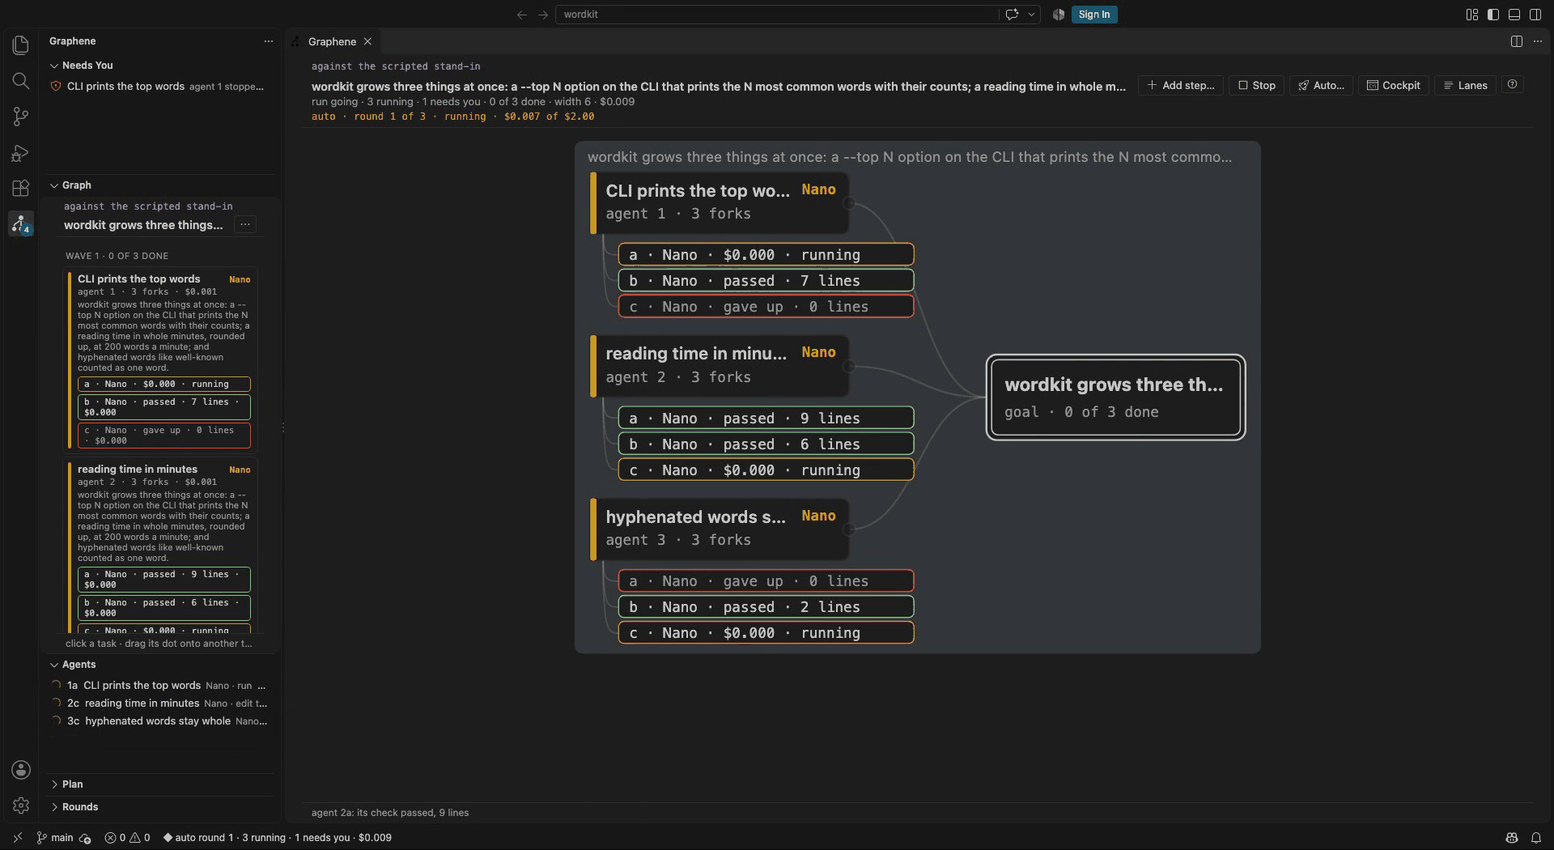
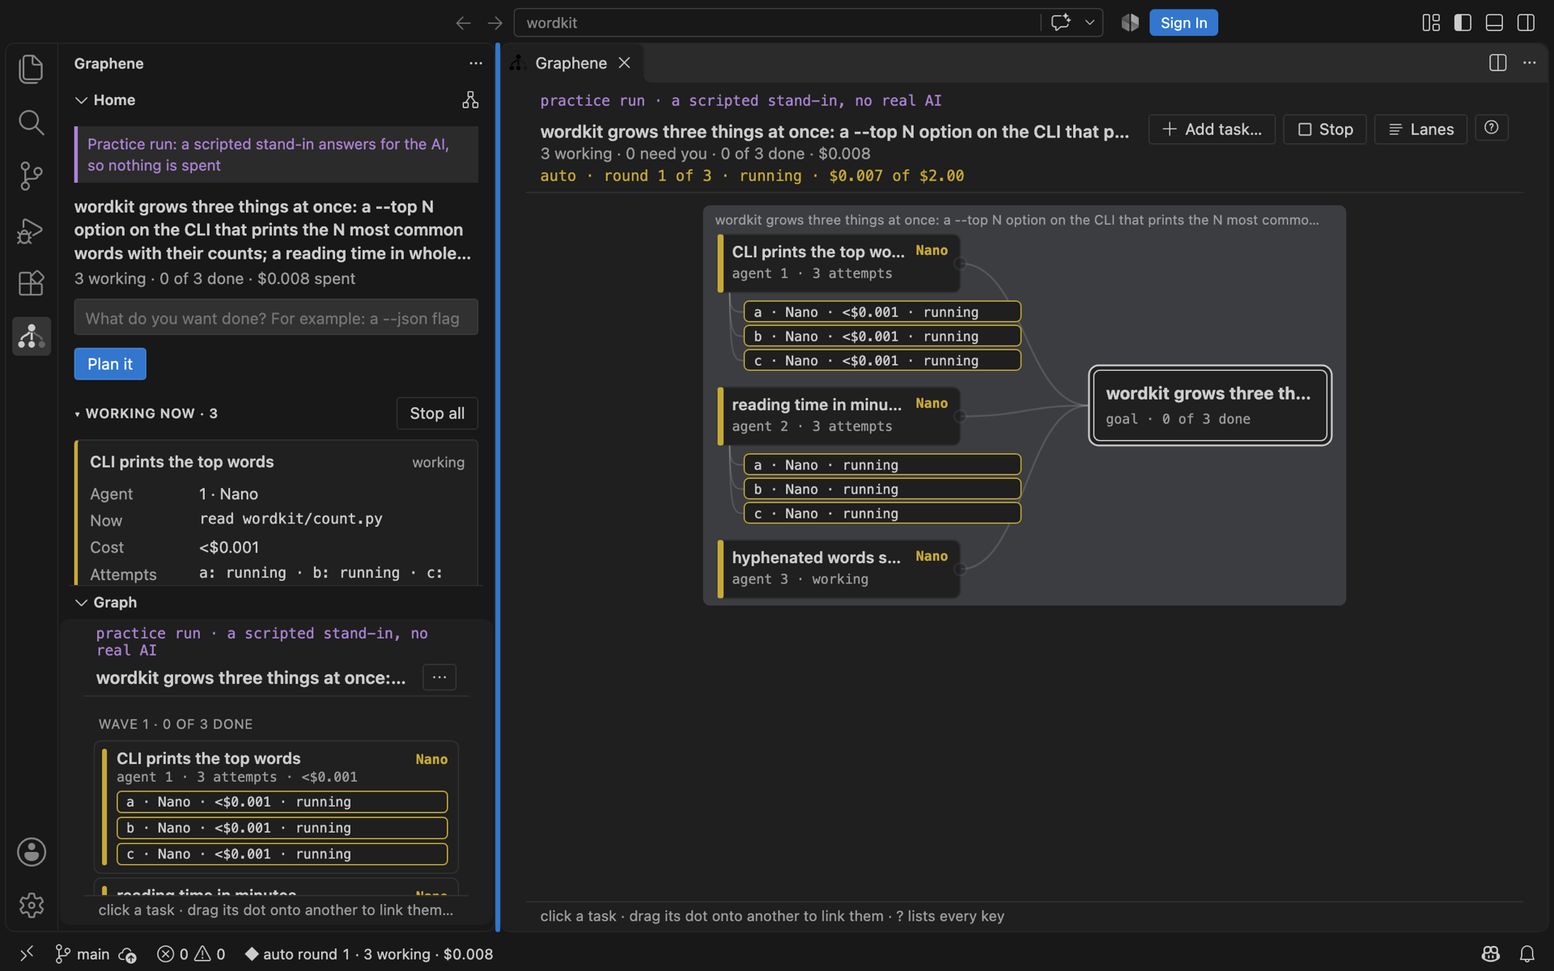
docs: Home in the listing, the README and the changelogs; DIRECTION 211-217
The extension's README leads with Home and maps the words on screen to
the CLI's; the root README, HACKATHON and COMPARE say Home where they
said Needs You; both changelogs list the change; DIRECTION records its
seven decisions, each one to veto. The listing's picture is a stand-in
race in real VS Code, Home in the side bar and the graph as a tab.

diff --git a/editors/vscode/README.md b/editors/vscode/README.md
@@ -1,34 +1,41 @@
 # Graphene for VS Code
 
-Watch and steer a team of coding agents from your editor. Graphene holds each agent to one task, one set of
-files and one check. This extension shows what needs you, the agents as they work, and the plan as a graph.
+Say what you want, read the plan, start the agents, and approve what they did. Graphene runs each agent on one
+task, in its own copy of your repository, held to the files that task may change. A task lands only when its
+check passes and, if you keep the box ticked at setup, when you approve it.
 
-![Graphene for VS Code during a race against the scripted stand-in, in real VS Code: the editor tab draws three tasks, each fanned out into three Nano forks, running, passed or given up, with their lines and dollars, flowing into the goal; the auto line says round 1 of 3, running, $0.007 of $2.00; in the side bar, Needs You holds a task whose agent was stopped, the Graph draws the same race as lanes, and Agents lists the three agents at work](media/graph.png)
+![Graphene for VS Code during a race against the scripted stand-in, in real VS Code: Home, in the side bar, shows three agents working, each with its model, what it is doing now, its cost and its attempts, and a Stop all button; the editor tab draws the same race, two tasks each fanned out into three Nano attempts, all running, flowing into the goal; the auto line says round 1 of 3, running, $0.007 of $2.00](media/graph.png)
 
 It is a thin client over the `graphene` command. Everything it shows is `graphene state --json`, streamed with
 `--watch`, and everything it changes is one `graphene` command, the same ones the terminal cockpit runs.
 
-## What you can do
+## Home: everything with a click
 
-- **See what needs you first.** Needs You leads the side bar: a question, a proposal, a task that came back, a
-  sign-off, your own task, auto mode waiting. Each row has its move inline. Answer a question from its options
-  or in your own words, accept or drop a proposal, take up a hand-back, sign off from the diff, set a missing
-  key. Nothing sends you to the terminal.
-- **Watch the agents.** Agents lists every running agent: its number, task, model and fork, what it is editing
-  now, seconds quiet and dollars. Click one for its changes so far.
-- **Open any change in the diff editor.** A task or a fork opens against its base in VS Code's own diff editor.
-  A race's forks open side by side, and Keep This Fork and Sign Off sit in the diff's title.
-- **Read the race in the graph.** Tasks flow left to right into your goal. A forked task fans out into its forks
-  with their lines, dollars and seconds quiet, and the kept one says why it won. A task that came back is red,
-  with why. Narrow, the side bar draws the plan as lanes, wave by wave. Nothing is drawn under 11 px.
-- **Edit the plan as text.** Edit Plan as Text opens the plan's text form in an editor tab. Saving applies it,
-  all or none, and a refusal shows as a diagnostic on its line.
-- **Add a step in a sentence.** Type one line. The planner proposes the step with its scope, check and needs,
-  and it waits for your accept. Add Step by Hand keeps the four boxes.
-- **See whose file this is.** The Explorer marks each file a task owns, a running task's with its agent's
-  number. Open such a file and the status bar offers a diff with the agent's copy.
-- **Try it with no key.** Graphene: Watch the Demo plays a scripted run in a graph of its own, with no model
-  and no network, and its header says so.
+Click Graphene in the activity bar. Home is the first view, and it shows the one thing to do next.
+
+1. **Set up the folder.** Pick who plans and does the work: Claude Code, Codex or Nemotron. One click. Leave
+   *Ask me to approve each finished task* ticked, and nothing lands without you.
+2. **Say what you want.** Type it, in a sentence or a paragraph, and click **Plan it**. The planner reads the
+   repository and suggests small tasks. Each card says what the task is for, the files it may change, and the
+   check that proves it is done. Remove what you do not want.
+3. **Start.** The tasks are accepted and an agent starts on each. **Working now** shows each agent, what it is
+   editing and what it has spent; **Stop all** stops them.
+4. **Review.** Each finished task shows the files it changed, the check that passed, and the agent's last
+   steps. **Open changes** opens VS Code's diff editor; **Approve** lands it; **Send back…** returns it to an
+   agent with what is wrong. Approve before you have opened the changes, and Home asks first. When two attempts
+   both pass, you compare them and keep one.
+
+A task that needs help says why and offers its fixes as buttons: try again, allow it a file, add a task for what
+it needs. A question from the planner shows its options as buttons, the default first.
+
+The **graph** under Home is the whole plan: which tasks wait on which, the attempts racing, the one kept and
+why. **Show graph** opens it as a tab. The Explorer marks each file a task owns, a working agent's with its
+number.
+
+## Try it with no key
+
+**Graphene: Watch the Demo** plays a recorded run in a graph of its own, with no model and no network, and says
+so at the top.
 
 ## Install
 
@@ -48,54 +55,30 @@ It is a thin client over the `graphene` command. Everything it shows is `graphen
    code --install-extension graphene-0.9.0.vsix      # Cursor: cursor --install-extension graphene-0.9.0.vsix
    ```
 
-3. Open a folder. `Graphene: Set Up This Folder` asks who plans and who does the work, in two picks: Nemotron on
-   Token Factory, Claude Code, Codex, or a command of your own. It runs `graphene init` in a terminal. Then
-   `Graphene: Auto…` takes a goal and a budget, and plans first.
+3. Open a folder and click Graphene in the activity bar. Home sets it up.
 
 The Welcome page's **Get started with Graphene** walks through these, each step a button.
 
-## Editors
+## The words on screen
 
-VS Code 1.95 or later. In Cursor 3.25.6 (VS Code 1.128) the `.vsix` installs and activates, and the harness's
-end-to-end check passes there (`editors/vscode/e2e`). Cursor's agent layout hides the primary side bar; in its
-classic layout the views look as they do in VS Code.
-
-## Views
-
-- **Needs You**: questions, proposals, hand-backs, sign-offs, your own tasks and auto mode waiting, each with
-  its move inline, and a badge with the count.
-- **Graph**: the plan as a graph, in the side bar and as an editor tab (`Graphene: Show Plan Graph`); `?` lists
-  its keys.
-- **Agents**: every running agent, what it is doing, seconds quiet and dollars, and a badge with the count.
-- **Plan**: goal, sub-goals and tasks with a codicon per state and `model · forks · $` beside each.
-- **Rounds**: auto mode's iterations, what the envelope accepted, which fork each task kept and what landed.
-- **Explorer** marks and a **status bar** item: `◆ 2 running · 1 needs you · $0.42`; click it for the graph.
+| On screen | What it means | The CLI's word |
+| --- | --- | --- |
+| suggested | the planner proposed it; nothing runs until you start it | proposed |
+| working | an agent is on it now | running |
+| to review | its check passed; it waits for your approval | review |
+| needs help | it stopped before its check passed, and says why | came back |
+| attempt | one of several agents racing the same task; its check keeps one | fork |
+| approve | land it in your repository | sign off |
+| send back | open it again, with a note for the next agent | reopen |
 
 ## Commands
 
-All under `Graphene:` in the command palette; most are also in the views' menus and the graph's details pane.
+Seven in the command palette, all under `Graphene:`: **Home**, **Show Graph**, **Watch the Demo**, **Stop All
+Agents**, **Set Up This Folder**, **Install Graphene…** and **Set API Key…**. Everything else is a button on Home,
+in the graph's details pane, or in a diff's title (**Keep This Attempt**, **Approve**).
 
-| Command | What it does |
-| --- | --- |
-| Auto… | a goal, a budget and whether to plan first: `graphene auto "<goal>"` in a terminal you can stop |
-| Set Envelope… | what auto mode may do without you: budget, tasks, rounds, forks, checks |
-| Run Ready Tasks / Stop | `graphene run --parallel 4` in a terminal; `graphene run --stop` |
-| Answer… | a board question: its options, its default, or your own words |
-| Accept / Accept All | a proposal, or all of them |
-| Take Up the Hand-Back… | a task that came back: widen it, reopen its owner, or try again |
-| Sign Off | a task waiting on you, from its diff |
-| Mark Your Task Done | a task of your own: `graphene node done` in a terminal, where its check runs |
-| Set Key… | `graphene key set` in a terminal, a hidden prompt; offered when a run waits on a key |
-| Open Changes / Compare Forks / Keep This Fork | a task or fork in the diff editor; a race side by side; the one to keep (from the palette, a pick of the tasks that have them) |
-| Edit Plan as Text | the plan's text form in an editor tab; save applies it |
-| Add Step… | one sentence; the planner proposes the step |
-| Add Step by Hand… | title, where, scope and check, typed; no check means your sign-off finishes it |
-| Link… / Edit Step… / Drop Step | B waits on A; title, scope or check; drop it (`graphene plan undo` puts it back) |
-| Tell Agent… | one line a hooked agent reads before its next write |
-| Diff with the Agent's Copy | the open file against the running agent's version |
-| Watch the Demo | a scripted run in a graph of its own, no key and no network |
-| Show Plan Graph / Open Cockpit | the graph as a tab; `graphene watch` in a terminal |
-| Set Up This Folder / Install Graphene… / Refresh | `graphene init`; `uv tool install graphene-map`, after you say yes; read the plan again |
+Set `graphene.advanced` to see every command in the palette (auto mode, limits, edit the plan as text, add a task
+by hand, the cockpit in a terminal) and the Needs You, Agents, Plan and Rounds views.
 
 ## Settings
 
@@ -103,28 +86,37 @@ All under `Graphene:` in the command palette; most are also in the views' menus 
 | --- | --- | --- |
 | `graphene.path` | `graphene` | the command: a name on PATH or an absolute path. Read from your own settings only, never a folder's |
 | `graphene.pollMs` | `1500` | how often the plan is read again while a view is open, when the CLI has no `--watch` stream |
+| `graphene.advanced` | off | every command in the palette, and the Needs You, Agents, Plan and Rounds views |
+
+## Editors
+
+VS Code 1.95 or later. In Cursor 3.25.6 (VS Code 1.128) the `.vsix` installs and activates, and the harness's
+end-to-end check passes there (`editors/vscode/e2e`). Cursor's agent layout hides the primary side bar; in its
+classic layout the views look as they do in VS Code.
 
 ## Trust and privacy
 
 - **A thin client.** The extension reads the plan with `graphene state --json` and changes it with `graphene`
   commands, run as you in the folder. It never opens the plan's store itself.
+- **Nothing from a page reaches a shell.** Home and the graph send the extension a message; it checks each one
+  against the plan (a known act, a task the plan has, an option the question has) and passes words only as one
+  argument of a `graphene` command. A title or a planner's words are shown as text, never as markup or a link.
 - **No network of its own.** The extension makes no request and sends no telemetry. The models you configured
-  (Token Factory, Claude Code, Codex) are the CLI's business, in a terminal you can see, with a key it reads from
-  a hidden prompt.
+  (Token Factory, Claude Code, Codex) are the CLI's business, with a key it reads from a hidden prompt.
 - **Off in Restricted Mode.** In a folder you have not trusted it does nothing: it would run commands, and the
   plan's checks, there.
 - **Your settings only.** `graphene.path` comes from your user settings, never from a folder's
   `.vscode/settings.json`, so a cloned repository cannot choose what the extension runs.
 - **A click in VS Code is the person's.** An editor started from an agent's shell inherits the agent's marks
-  (`CLAUDECODE`, `CODEX_SESSION_ID`, …); the extension takes them out of everything it runs, so your accept
+  (`CLAUDECODE`, `CODEX_SESSION_ID`, …); the extension takes them out of everything it runs, so your approval
   is a person's.
 - **The demo stays out of your folder.** Watch the Demo plays into a directory under the OS temp dir, and
   closing its graph removes it.
 
 ## Limits
 
-- It needs Graphene 0.9 or later for the Agents view, the diffs, the text plan and the demo; with an older CLI
-  each view says what the CLI said, and the plan is polled instead of streamed.
+- It needs Graphene 0.9 or later; with an older CLI each view says what the CLI said, and the plan is polled
+  instead of streamed.
 - One plan per window: the first workspace folder with a store.
 - Nobody has used it on a real run yet. It was built and checked against a fixture and a scripted stand-in.
 

diff --git a/README.md b/README.md
@@ -89,16 +89,16 @@ may write; `:auto <goal>` starts auto mode from the cockpit.
 
 ### In VS Code
 
-![Graphene for VS Code during a race against the scripted stand-in, in real VS Code: the editor tab draws three tasks, each fanned out into three Nano forks, running, passed or given up, with their lines and dollars, flowing into the goal; the auto line says round 1 of 3, running, $0.007 of $2.00; in the side bar, Needs You holds a task whose agent was stopped, the Graph draws the same race as lanes, and Agents lists the three agents at work](https://raw.githubusercontent.com/Alex-lop/Graphene/main/editors/vscode/media/graph.png)
+![Graphene for VS Code during a race against the scripted stand-in, in real VS Code: Home, in the side bar, shows three agents working, each with its model, what it is doing now, its cost and its attempts, and a Stop all button; the editor tab draws the same race, two tasks each fanned out into three Nano attempts, all running, flowing into the goal; the auto line says round 1 of 3, running, $0.007 of $2.00](https://raw.githubusercontent.com/Alex-lop/Graphene/main/editors/vscode/media/graph.png)
 
 The extension in [`editors/vscode`](https://github.com/Alex-lop/Graphene/blob/main/editors/vscode/README.md) is
-the same plan in your editor. Needs You comes first in the side bar: a question, a proposal, a task that came
-back, a sign-off, each with its move. Agents lists every running agent, what it edits now, its seconds quiet and
-its dollars. The graph shows the race: a task fans out into its forks as they work, and the kept one says why it
-won. A task's changes open in VS Code's own diff editor, a race's forks side by side. The plan opens as text, and
-saving applies it. Add Step takes one sentence, and the planner proposes the step. Watch the Demo plays the race
-with no key. Every click is a `graphene` command run as you, and it reads `graphene state --json`, the cockpit's
-own snapshot, so the two never disagree.
+the same plan in your editor, with a click for everything. Home comes first in the side bar: set the folder up in
+one pick, type what you want and click Plan it, read the suggested tasks (what each is for, the files it may
+change, what proves it), and Start. Each finished task then shows what it changed and the check that passed:
+Open changes, Approve, or Send back with a note, and Approve asks first if you never opened the changes. The graph
+shows the race: a task fans out into its attempts as they work, and the kept one says why it won. Watch the Demo
+plays the race with no key. Every click is a `graphene` command run as you, and it reads `graphene state --json`,
+the cockpit's own snapshot, so the two never disagree.
 
 Install the `.vsix` attached to [the latest release](https://github.com/Alex-lop/Graphene/releases/latest) with
 `code --install-extension`, or from the Marketplace and Open VSX once they list it. It is built for VS Code 1.95

diff --git a/CHANGELOG.md b/CHANGELOG.md
@@ -2,11 +2,24 @@
 
 ## 0.9.0 (unreleased)
 
-The editor night (26 to 27 October 2026). Graphene for VS Code is where you watch and steer; the CLI gives it
-what it reads and writes through; the gate is harder after a review by two who did not build it. Each line is
-one change, with what shows it.
-- Needs You leads the editor's side bar: a question, a proposal, a task that came back, a sign-off, your own
-  task, auto mode waiting, each with its move inline (the view in Graphene for VS Code; `Graphene: Answer…`).
+The editor night (26 to 27 October 2026), then Home (28 October). Graphene for VS Code is where you watch and
+steer, with a click; the CLI gives it what it reads and writes through; the gate is harder after a review by two
+who did not build it. Each line is one change, with what shows it.
+- Home leads the editor's side bar and does it all with a click: Set Up is one pick (Claude Code, Codex or
+  Nemotron: `graphene init --planner X --executor X`); Plan it asks the planner (`graphene ask`); the suggested
+  tasks say what each is for, the files it may change and what proves it; Start accepts them and runs the agents;
+  each finished task shows what it changed, its check and its last steps, with Open changes, Approve (`graphene
+  node signoff`) and Send back… (`graphene node reopen ID --note=…`) (`editors/vscode/e2e/home.mjs` clicks it all
+  through in real VS Code against the stand-in, 18 s).
+- Approving a task whose changes were never opened asks first; Set Up turns on `review: every` unless unticked, so
+  each finished task waits for the person; two attempts that both passed are compared and one kept first.
+- The palette lists seven commands (Home, Show Graph, Watch the Demo, Stop All Agents, Set Up This Folder, Install
+  Graphene…, Set API Key…); the rest, and the Needs You, Agents, Plan and Rounds views, show with
+  `graphene.advanced` (`test/home.test.ts`, `tests/test_vscode_packaging.py`).
+- Plain words on the editor's screens: suggested, working, to review, needs help, attempt, approve, send back,
+  limits; the CLI keeps its own, and the extension's README maps one to the other.
+- Needs You (with `graphene.advanced`; Home shows the same first): a question, a proposal, a task that came back, a
+  sign-off, your own task, auto mode waiting, each with its move inline (`Graphene: Answer…`).
 - Agents lists every running agent with its task, model, fork, what it edits now, seconds quiet and dollars; a
   click opens its changes so far (`Graphene: Open Changes`).
 - A task's or a fork's changes open in VS Code's own diff editor, a race's forks side by side, Keep This Fork

diff --git a/dev/DIRECTION.md b/dev/DIRECTION.md
@@ -1807,6 +1807,31 @@ the widen and the sibling offers stay unjudged, as 171 had them.
 209. **The reference's cap is 5,300 words**, for the commands an editor reads and writes through.
 210. **The next version is 0.9.0**: new views in the editor, and new flags in the CLI.
 
+## Decisions taken on 28 October (Home)
+
+Alex, after the editor night: "give the user something that can simply click on and make the agents do", the
+words were too many and had to be typed right, and the UI should help a person understand what the agents did,
+"since that's what we're trying to challenge with some SWEs not even reviewing their PRs or code".
+
+211. **Home leads the side bar, and everything is a click.** Set Up, Plan it, Start, Open changes, Approve, Send
+     back. The one thing a person types is what they want.
+212. **Seven commands in the palette**: Home, Show Graph, Watch the Demo, Stop All Agents, Set Up This Folder,
+     Install Graphene…, Set API Key…. The other 22, and the Needs You, Agents, Plan and Rounds views, show with
+     `graphene.advanced`. Nothing was deleted: each is a button where it is needed.
+213. **Plain words on the editor's screens; the CLI keeps its own.** Suggested (proposed), working (running), to
+     review (review), needs help (came back), attempt (fork), approve (sign off), send back (reopen), limits
+     (envelope). The extension's README maps them.
+214. **Set Up from Home turns `review: every` on** unless the person unticks it: each finished task waits for
+     their approval before it lands. *Why:* unread agent work is what Graphene is for; review is the default,
+     and landing unseen is the opt-out.
+215. **Approve asks first when the task's changes were never opened** in this window: Open Changes, Approve
+     Anyway, Cancel. One modal; a person who looked is never asked.
+216. **Set Up is one pick for both roles.** The same AI plans and does the work; two different ones are
+     `graphene init --planner X --executor Y`, or Set Up This Folder on a folder that already has a plan.
+217. **Plan it is `graphene ask`, not `graphene auto --plan`.** An ask proposes and changes no setting; auto
+     turns `auto: on`, after which an agent's proposal that fits is accepted at once. Auto stays in the palette
+     with `graphene.advanced`.
+
 ## What does not bind (say it wherever you sell it)
 
 - A shell command can write a file in a way nothing reads beforehand (a script that opens files

diff --git a/docs/HACKATHON.md b/docs/HACKATHON.md
@@ -54,9 +54,9 @@ lands. Then the goal's own check runs on the merged result, and when it is red U
 rounds you allowed. Token Factory is what makes a race on every task affordable: the replay's whole run, two plans
 by Ultra and twelve Nano forks, cost $0.02 at the scripted stand-in's prices (`tests/test_demo_auto.py`), and
 `graphene demo --auto` replays it with no key. The same plan, forks racing, shows in VS Code (`editors/vscode`):
-Needs You first, each thing that waits for you with its move; every running agent with what it edits, its
-seconds quiet and its dollars; a task's changes in the diff editor; and every click a `graphene` command run as
-you. The `.vsix` is on each GitHub release, and a harness drove it in real VS Code 1.143.1 and Cursor 3.25.6
+Home first, where everything is a click (set up, Plan it, Start, then Open changes, Approve or Send back on each
+finished task); every running agent with what it edits and its dollars; a task's changes in the diff editor; and
+every click a `graphene` command run as you. The `.vsix` is on each GitHub release, and a harness drove it in real VS Code 1.143.1 and Cursor 3.25.6
 (`editors/vscode/e2e`).
 
 **On NVIDIA Nemotron, through Nebius Token Factory: the path built for this hackathon.** `graphene init --planner

diff --git a/editors/vscode/CHANGELOG.md b/editors/vscode/CHANGELOG.md
@@ -2,7 +2,16 @@
 
 ## 0.9.0 (unreleased)
 
-Beside Graphene 0.9.0: the editor night (26 to 27 October 2026).
+Beside Graphene 0.9.0: the editor night (26 to 27 October 2026), then Home (28 October).
+
+- Home leads the side bar and does everything with a click: set the folder up (one pick: Claude Code, Codex or
+  Nemotron), say what you want and Plan it, read the suggested tasks (what each is for, the files it may change,
+  what proves it), Start, then review each finished task: Open changes, Approve, or Send back… with a note.
+- Approving a task whose changes you never opened asks first; Set Up turns on `review: every` (each finished task
+  waits for your approval) unless you untick it; two attempts that both passed are compared and one kept first.
+- Seven commands in the palette (Home, Show Graph, Watch the Demo, Stop All Agents, Set Up This Folder, Install
+  Graphene…, Set API Key…); the rest, and the Needs You, Agents, Plan and Rounds views, with `graphene.advanced`.
+- Plain words on screen: suggested, working, to review, needs help, attempt, approve, send back, limits.
 
 - Needs You, first in the sidebar: questions, proposals, hand-backs, sign-offs and auto mode waiting, each with
   its move inline; nothing sends you to the cockpit.

diff --git a/docs/COMPARE.md b/docs/COMPARE.md
@@ -69,8 +69,8 @@ the check it must pass, a write outside those files refused as it happens, the c
 and a piece landed only when it passes, on your machine with no account. That is the claim, and it is scoped: my-pi
 has a per-task file scope with checks for another agent, and Ralon locks writes more strongly than a hook does, from
 one static list. Claude Code's Agent View gives every session a row and its Agent Teams a shared task list; both
-leave the files to convention. Graphene for VS Code's Needs You and Agents views are those two rows, held to a
-plan's files; nobody has used them on a real run yet. Nobody here is "the only one".
+leave the files to convention. Graphene for VS Code's Home (what needs you, who is working) is those two rows,
+held to a plan's files; nobody has used it on a real run yet. Nobody here is "the only one".
 
 What Graphene lacks, in this table: it holds a write before it happens only for Claude Code (for Codex and any other
 command, git finds it when the leaf is declared done); its hook fails open if it cannot run on a Claude Code before
